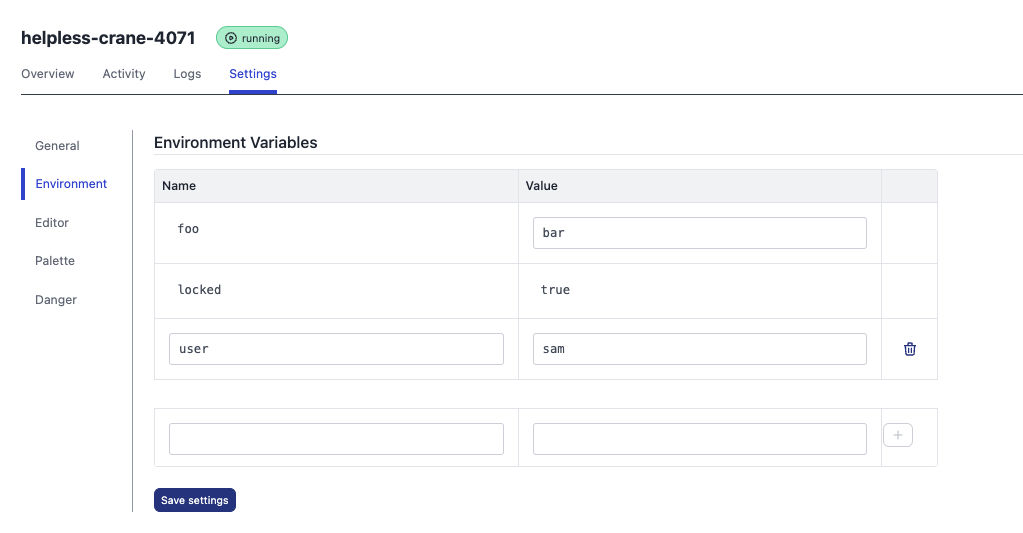
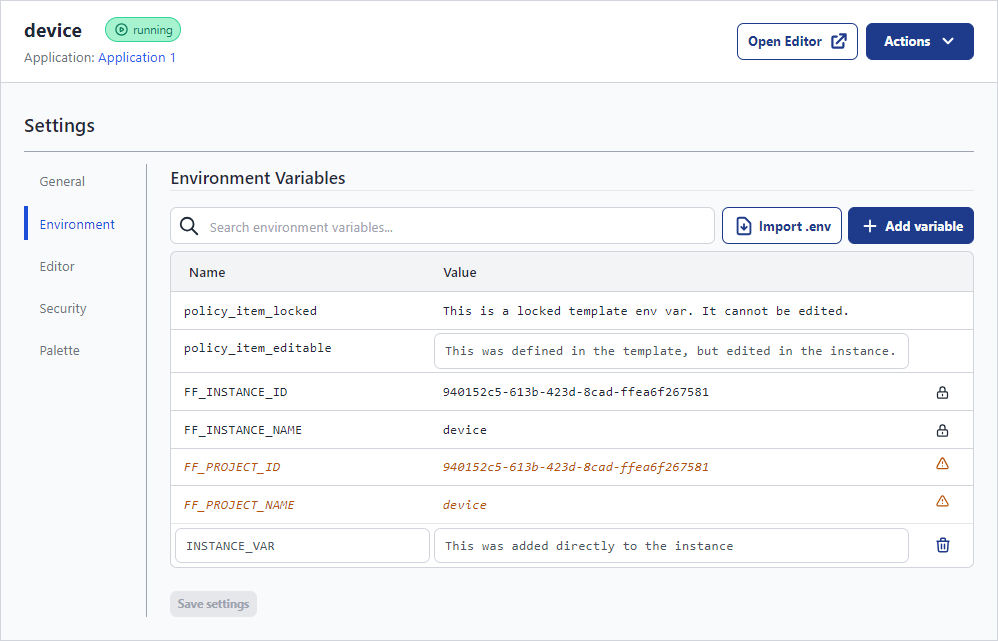
update docs

diff --git a/docs/user/envvar.md b/docs/user/envvar.md
@@ -25,17 +25,22 @@ their value can be set to blank.
 
 ## Node-RED instance variables
 
-You can create additional variables for an individual Node-RED instance by entering the name and value in the boxes at the bottom of the list and clicking the `+` button.
+You can create additional variables for an individual Node-RED instance clicking the `Add variable` button.
+
+You can import variables from a `.env` file using the `Import .env` button.
 
 You can delete a variable using the trash can icon.
 
-The image below shows an instance with 3 environment variables.
+The image below shows an instance with the following environment variables:
 
-The first one `foo` is set by the template but the value `bar` is editable
+* `policy_item_locked` - added by the template, locked
+* `policy_item_editable` - added by the template, editable
+* `FF_INSTANCE_ID` - provided by the platform, locked
+* `FF_INSTANCE_NAME` - provided by the platform, locked
+* `FF_PROJECT_ID` - provided by the platform, locked, depreciated
+* `FF_PROJECT_NAME` - provided by the platform, locked, depreciated
+* `INSTANCE_VAR` - added to the instance, editable
 
-The second one `locked` is set by the template and the value is set to `true` is not editable
-
-The third one `user` is set for the instance, the value can be edited or the variable deleted
 
 <img src="images/project-envvar.png" width="500" />
 
